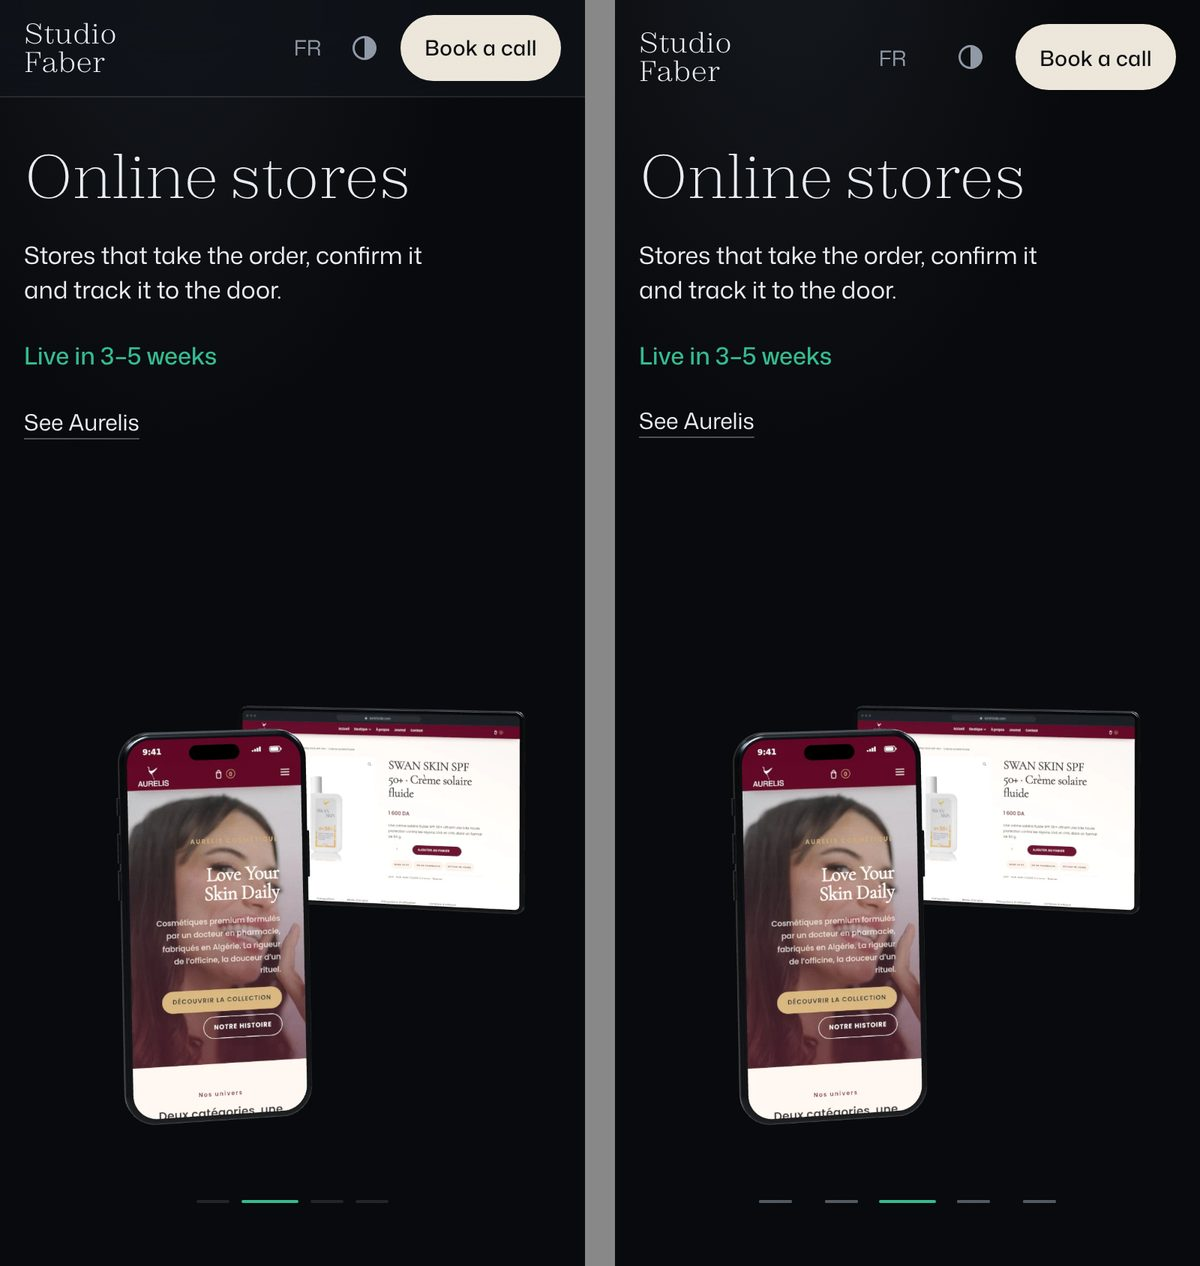
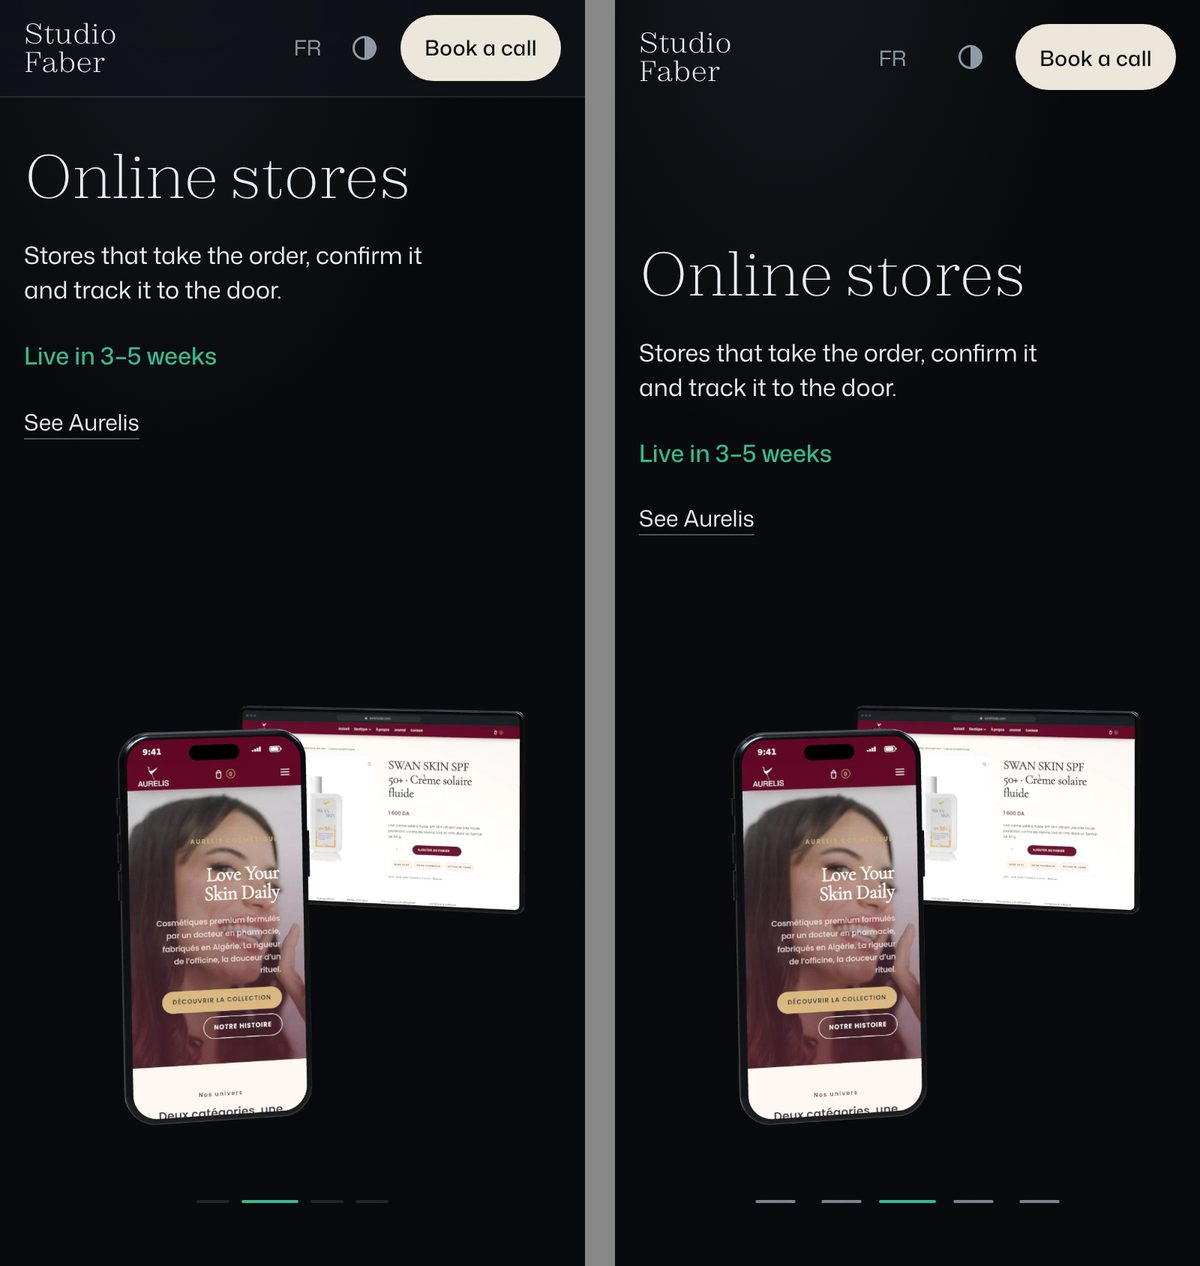
Phone polish: headings in order, one call button, tighter Work, CI on phones
- The hero's headings read h1, h2, h3: the services heading moved after the
  statement in the markup, at the same place on screen.
- On phones the nav's call button stands down while the statement shows its
  own. It is switched once a swipe has come to rest: a style change that lands
  mid-swipe makes the track snap back.
- A service's copy sits in the middle of the room above the devices.
- Less air around the Work title, so the cards and dots fit one screen.
- No swipe hint on short screens, where the devices reach that far down.
- Switching between the phone and desktop layouts ignores slides that report
  themselves mid-flip.
- CI runs the phone profiles as well as desktop.

Claude-Session: https://claude.ai/code/session_012SNWqQe5K8MQY4QW4FLsSh

diff --git a/tests/mobile.spec.ts b/tests/mobile.spec.ts
@@ -1,4 +1,5 @@
 import { test, expect, type CDPSession, type Page } from '@playwright/test';
+import AxeBuilder from '@axe-core/playwright';
 
 /**
  * Phones swipe where computers scroll: the hero and the work cards are native scroll-snap
@@ -41,10 +42,15 @@ const open = async (page: Page) => {
   // The steps don't depend on the live 3D, and compiling it without a GPU (CI) stalls the page.
   await page.route(/hero-3d|stage\./, (r) => r.abort());
   await page.goto(HOME);
+  // A font or an image that lands mid-swipe changes the layout, and the track snaps back.
+  await page.waitForLoadState('networkidle');
+  await page.evaluate(() => document.fonts.ready);
 };
 
 test.describe('on a phone', () => {
   test.skip(({ isMobile }) => !isMobile, 'phone profiles only');
+  // The gestures are sent on a clock, on a shared machine: now and then one lands badly.
+  test.describe.configure({ retries: 2 });
 
   test('the hero is one screen tall and no longer pinned', async ({ page }) => {
     await open(page);
@@ -62,13 +68,19 @@ test.describe('on a phone', () => {
     const on = page.locator('.step.on');
     const current = page.locator('.ticks button[aria-current]');
     await expect(on.locator('h1')).toBeVisible();
-    await expect(page.locator('.swipe-hint')).toBeVisible();
+    // Short screens have no room for the hint between the devices and the dots.
+    const tall = page.viewportSize()!.height > 720;
+    if (tall) await expect(page.locator('.swipe-hint')).toBeVisible();
+    else await expect(page.locator('.swipe-hint')).toBeHidden();
+    // The statement has its own call button, so the nav's waits.
+    await expect(page.locator('.nav .btn')).toBeHidden();
     await expect(current).toHaveAccessibleName('Introduction');
 
     await swipe(page, '.copy', { x: -160 });
     await expect(on.locator('h3')).toHaveText('Web apps and SaaS');
     await expect(current).toHaveAccessibleName('Web apps and SaaS');
-    await expect(page.locator('.swipe-hint')).toHaveCSS('opacity', '0');
+    if (tall) await expect(page.locator('.swipe-hint')).toHaveCSS('opacity', '0');
+    await expect(page.locator('.nav .btn')).toBeVisible();
 
     await swipe(page, '.copy', { x: -160 });
     await expect(on.locator('h3')).toHaveText('Online stores');
@@ -80,9 +92,6 @@ test.describe('on a phone', () => {
   });
 
   test.describe('in quick succession', () => {
-    // Timing-sensitive by nature: the gestures are sent on a clock, on a shared machine.
-    test.describe.configure({ retries: 2 });
-
     test('each swipe lands on the next slide', async ({ page }) => {
       // A swipe that starts while the last one is still snapping must not be lost: nothing
       // in the hero may animate or lay out until the track is at rest (scripts/hero.ts).
@@ -201,6 +210,21 @@ test.describe('on a phone', () => {
       await expect(page.locator('.swipe-hint svg')).toHaveCSS('animation-name', 'none');
     });
   });
+
+  test('scrolling down brings the nav button back', async ({ page }) => {
+    await open(page);
+    await expect(page.locator('.nav .btn')).toBeHidden();
+    await swipe(page, '.copy', { y: -260 });
+    await expect(page.locator('.nav .btn')).toBeVisible();
+  });
+});
+
+test('the hero headings read in order', async ({ page }) => {
+  await open(page);
+  const results = await new AxeBuilder({ page }).withRules(['heading-order']).analyze();
+  expect(results.violations.map((v) => v.nodes.map((n) => n.target).join(' '))).toEqual([]);
+  const order = await page.locator('.stage :is(h1, h2, h3)').evaluateAll((hs) => hs.map((h) => h.tagName).join(' '));
+  expect(order).toBe('H1 H2 H3 H3 H3 H3');
 });
 
 test.describe('on a computer', () => {

diff --git a/src/scripts/hero.ts b/src/scripts/hero.ts
@@ -166,6 +166,8 @@ function init(stageEl: HTMLElement) {
     if (!stageEl.classList.contains('gl-ready')) stills.go(step, shown, shown >= 0);
     live?.go(step, shown);
     shown = step;
+    // For the nav: on phones its call button stands down while the statement shows its own.
+    document.documentElement.toggleAttribute('data-statement', step === 0);
   }
 
   /** Pinned, only the current step can be reached; swiped, every slide is there to read. */
@@ -208,8 +210,10 @@ function init(stageEl: HTMLElement) {
   addEventListener('scroll', onScroll, { passive: true });
 
   // Phones: the copy is a scroll-snap track, and the slide in view is the step.
+  let switching: ReturnType<typeof setTimeout> | undefined;
   const slides = carousel(track, steps, dots, (i) => {
-    if (i !== step) go(i);
+    // While the layout flips to the track, half-laid-out slides report themselves in view.
+    if (i !== step && !switching) go(i);
   });
   const swiped = () => {
     if (!isMobile() || track.scrollLeft < 8) return;
@@ -221,6 +225,8 @@ function init(stageEl: HTMLElement) {
   go(isMobile() ? 0 : stepAt(pinProgress(pin)));
   onMobileChange((mobile) => {
     // Keep the step across a rotation: the track opens on it, or the pin picks it up from the scroll.
+    clearTimeout(switching);
+    switching = setTimeout(() => (switching = undefined), 250);
     if (mobile) slides.scrollTo(step, 'auto');
     else rested();
     const s = mobile ? step : stepAt(pinProgress(pin));

diff --git a/src/styles/global.css b/src/styles/global.css
@@ -141,6 +141,14 @@ html[data-mobile] .nav-theme {
   }
 }
 
+/* The statement has its own "book a call" right under the nav: one is enough until the
+   page moves or the hero is swiped on. The button keeps its place, so nothing shifts.
+   scripts/hero.ts sets the attribute once a swipe has come to rest: a change of style
+   that lands mid-swipe makes the track snap back. */
+html[data-mobile][data-statement] .nav:not(.scrolled) .btn {
+  visibility: hidden;
+}
+
 [hidden] {
   display: none !important;
 }

diff --git a/README.md b/README.md
@@ -58,6 +58,6 @@ After a visual change to the hero, run `pnpm build && pnpm preview`, then `node 
 
 ## Deploy
 
-On every push to `main`, `.github/workflows/deploy.yml` installs, checks, builds and runs the desktop tests, then publishes `dist/` to GitHub Pages. The build downloads Zodiak from Fontshare, so it needs network access.
+On every push to `main`, `.github/workflows/deploy.yml` installs, checks, builds and runs the tests (desktop and both phone profiles, all on Chromium), then publishes `dist/` to GitHub Pages. The build downloads Zodiak from Fontshare, so it needs network access.
 
 The site's address is `https://studiofaber.me`, set in both `astro.config.mjs` (`site`) and `src/data/site.ts` (`SITE_URL`). It drives the canonical, hreflang and share-image URLs. If the domain changes, change both.
